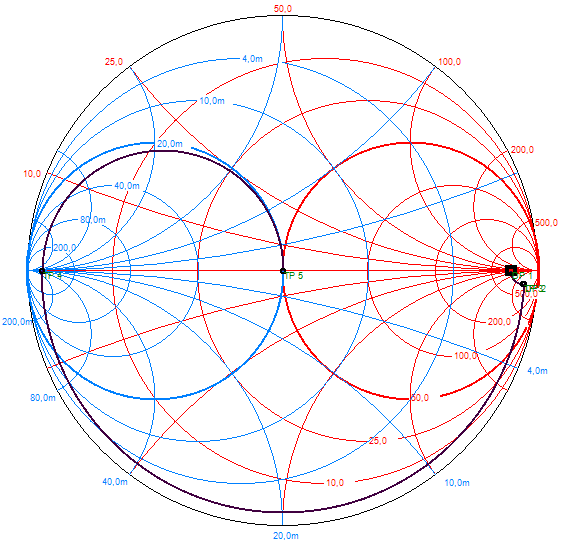
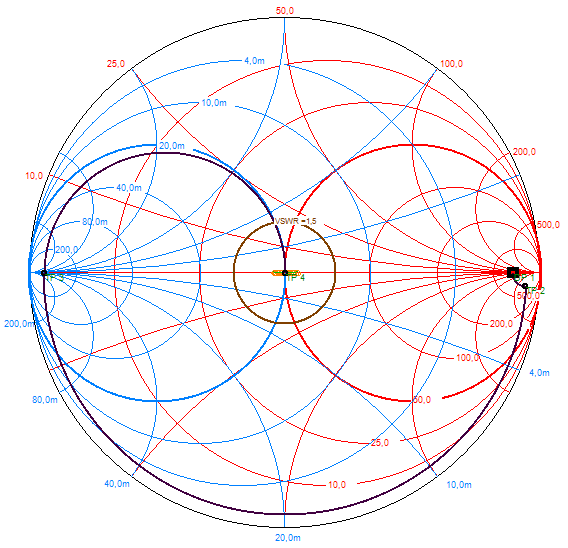
Commit final

diff --git a/Informe/Secciones/6_smith.tex b/Informe/Secciones/6_smith.tex
@@ -1,6 +1,6 @@
-La adaptación permite obtener una máxima eficiencia en la transmisión de energía, eliminando reflexiones de onda. Dentro de las posibles formas de adaptación, se optó por la utilización del adaptador de cuarto de onda y stub. La línea opera en un entorno de la mínima frecuencia, $\SI{72}{\mega\hertz} < f < \SI{88}{\mega\hertz}$, por lo que se considera el valor de carga de la expresión \eqref{ec.z_80}.
+La adaptación permite obtener una máxima eficiencia en la transmisión de energía, eliminando reflexiones de onda. Dentro de las posibles formas de adaptación, se optó por la utilización del adaptador de cuarto de onda y stub. La línea opera en un entorno de la mínima frecuencia, $\SI{72}{\mega\hertz} < f < \SI{88}{\mega\hertz}$ (se realiza el \emph{sweep} cada \SI{1}{\mega\hertz}), por lo que se considera el valor de carga de la expresión \eqref{ec.z_80}.
 
-A su vez se considera un criterio de $|\rho_l|<0,2$, ó de forma equivalente $\rm{ROE} \leq 1,5$
+A su vez se considera un criterio de $|\rho_l|<0,2$, o de forma equivalente $\rm{ROE} \leq 1,5$
 
 \subsection{Adaptador de cuarto de onda}
 El proceso consiste en intercalar el adaptador a una distancia $z_s$ de la carga $Z_L$, de forma tal que la impedancia de entrada $Z_{in}$ del conjunto línea y carga sea real. Para hallar el valor de $z_s$ se utiliza la carta de Smith mediante software. El adaptador queda definido mediante los parámetros $z_a$ (impedancia del adaptador) y $L_a$ (longitud del adaptador). La impedancia característica de la línea es dato, $Z_o = \SI{50}{\ohm}$. Ubicandose en $Z_L$, se desplaza hacia el generador sobre la circuinferencia $|\rho_L|$ hasta obtener impedancia real (eje real). Así se obtiene longitud de arco recorrido da la posición $z_s$ del adaptador. A partir de dicho valor y $Z_{in}$ se obtienen los parámetros de la línea \eqref{ec.z_a_4} y \eqref{ec.L_a_4}.
@@ -16,6 +16,7 @@ El proceso consiste en intercalar el adaptador a una distancia $z_s$ de la carga
 	L_a = \frac{\lambda_a}{4} = \frac{ \SI{3.75}{\meter} }{4} = \SI{0.937}{\meter}
 	\label{ec.L_a_4}
 \end{equation}
+
 
 %%%% FIGURA PARA CUARTO DE ONDA ESPACIO LIBRE
 \begin{figure}[H]
